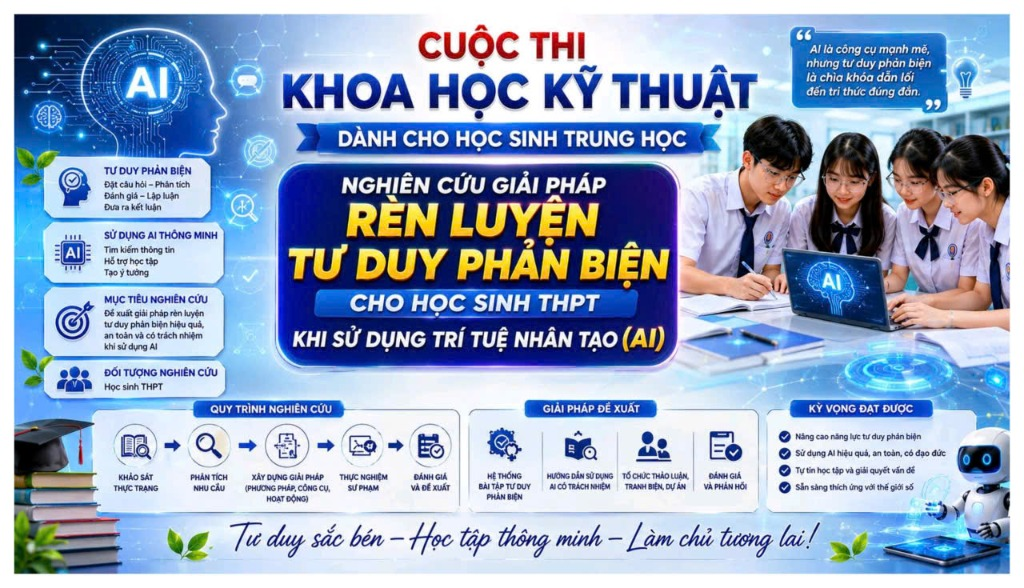
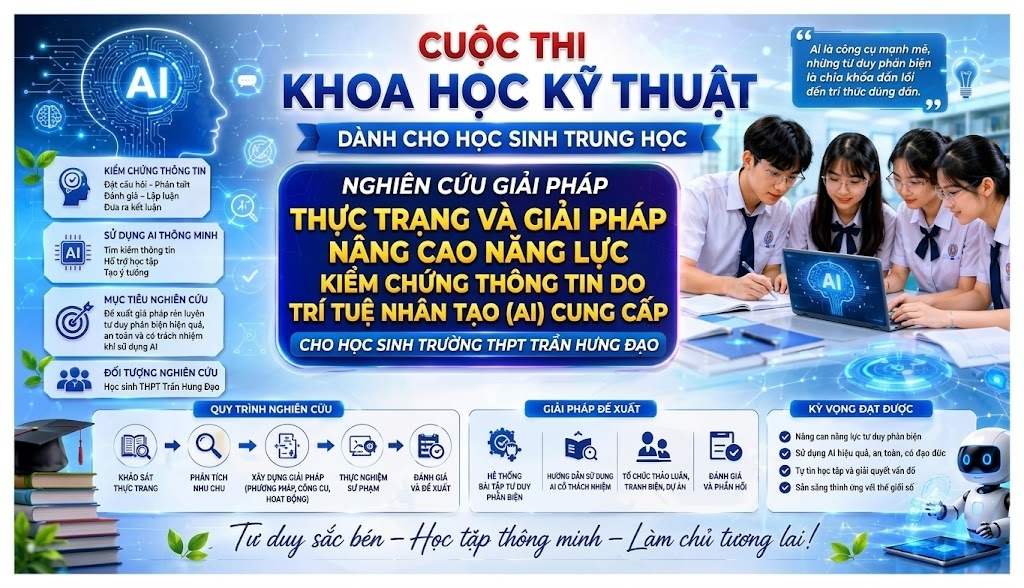
feat: cap nhat poster KHKT moi nhat voi de tai thuc trang va giai phap kiem chung thong tin AI

diff --git a/pages/resources.html b/pages/resources.html
@@ -35,7 +35,7 @@
     </section>
     <h2 class="section-label" id="formConfig">Google Form khảo sát</h2><div class="embed-box" id="formEmbed"><div class="embed-head"><strong>BIỂU MẪU KHẢO SÁT AI CHECK THĐ</strong><a id="openForm" href="#" target="_blank" rel="noopener noreferrer">Mở trong tab mới ↗</a></div><iframe id="formFrame" title="Google Form khảo sát năng lực kiểm chứng thông tin AI" loading="lazy"></iframe></div>
     <h2 class="section-label" id="khkt-poster">Poster Đề tài Cuộc thi KHKT 2026</h2>
-    <figure class="infographic-box"><a href="../assets/hero-khkt-banner.jpg" target="_blank" rel="noopener noreferrer" aria-label="Mở poster Cuộc thi KHKT kích thước gốc trong tab mới"><img src="../assets/hero-khkt-banner.jpg" alt="Poster Cuộc thi Khoa học Kỹ thuật dành cho học sinh trung học - Nghiên cứu giải pháp rèn luyện tư duy phản biện cho học sinh THPT khi sử dụng Trí tuệ nhân tạo (AI)" loading="lazy" decoding="async"></a><figcaption class="infographic-caption"><span>Poster chính thức đề tài nghiên cứu KHKT dành cho học sinh trung học.</span><a href="../assets/hero-khkt-banner.jpg" download="AI-CHECK-THD-Poster-KHKT.jpg">Tải poster ↓</a></figcaption></figure>
+    <figure class="infographic-box"><a href="../assets/hero-khkt-banner.jpg" target="_blank" rel="noopener noreferrer" aria-label="Mở poster Cuộc thi KHKT kích thước gốc trong tab mới"><img src="../assets/hero-khkt-banner.jpg" alt="Poster Cuộc thi Khoa học Kỹ thuật dành cho học sinh trung học - Thực trạng và giải pháp nâng cao năng lực kiểm chứng thông tin do Trí tuệ nhân tạo (AI) cung cấp cho học sinh trường THPT Trần Hưng Đạo" loading="lazy" decoding="async"></a><figcaption class="infographic-caption"><span>Poster chính thức đề tài nghiên cứu KHKT trường THPT Trần Hưng Đạo.</span><a href="../assets/hero-khkt-banner.jpg" download="AI-CHECK-THD-Poster-KHKT.jpg">Tải poster ↓</a></figcaption></figure>
 
     <h2 class="section-label" id="infographic">Infographic đề tài</h2>
     <figure class="infographic-box"><a href="../assets/ai-check-thd-infographic.png" target="_blank" rel="noopener noreferrer" aria-label="Mở infographic kích thước đầy đủ trong tab mới"><img src="../assets/ai-check-thd-infographic.png" alt="Infographic về thực trạng sử dụng AI, rủi ro thông tin sai lệch và các giải pháp nâng cao năng lực kiểm chứng thông tin AI cho học sinh THPT Trần Hưng Đạo." loading="lazy" decoding="async"></a><figcaption class="infographic-caption"><span>Thực trạng, rủi ro và giải pháp nâng cao năng lực kiểm chứng thông tin AI.</span><a href="../assets/ai-check-thd-infographic.png" download="AI-CHECK-THD-infographic.png">Tải infographic ↓</a></figcaption></figure>
